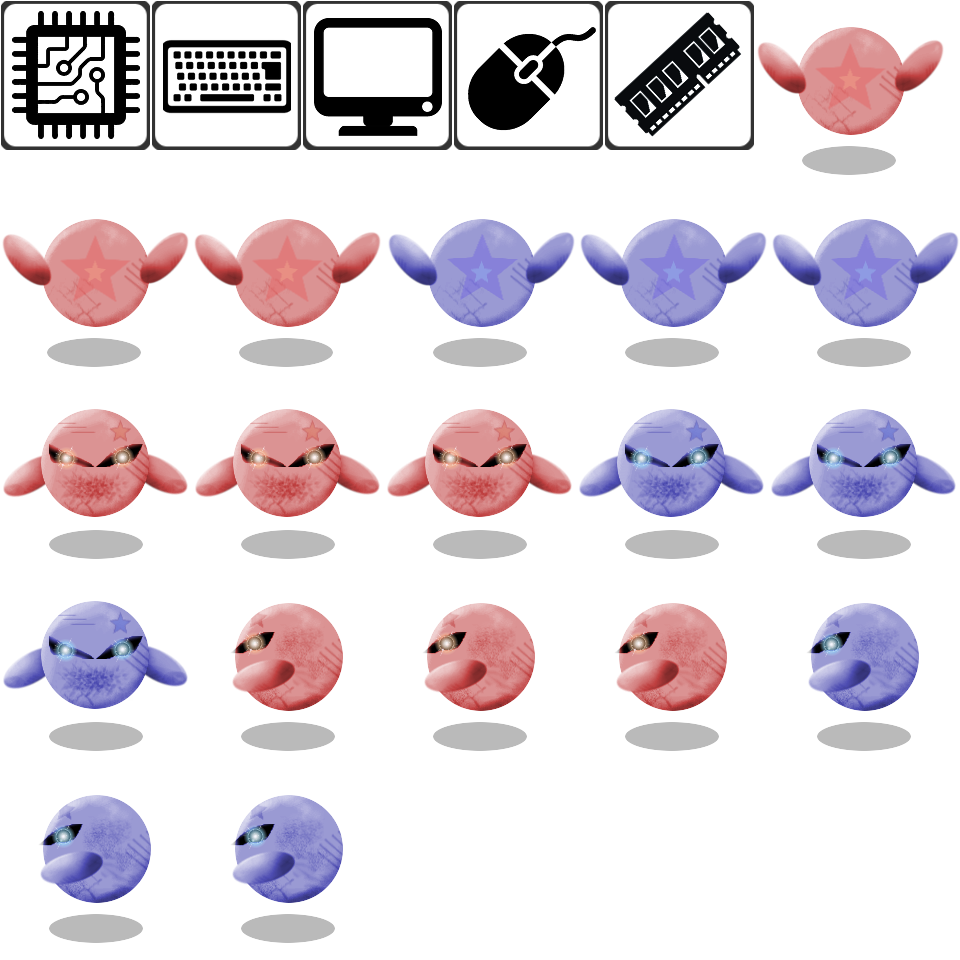
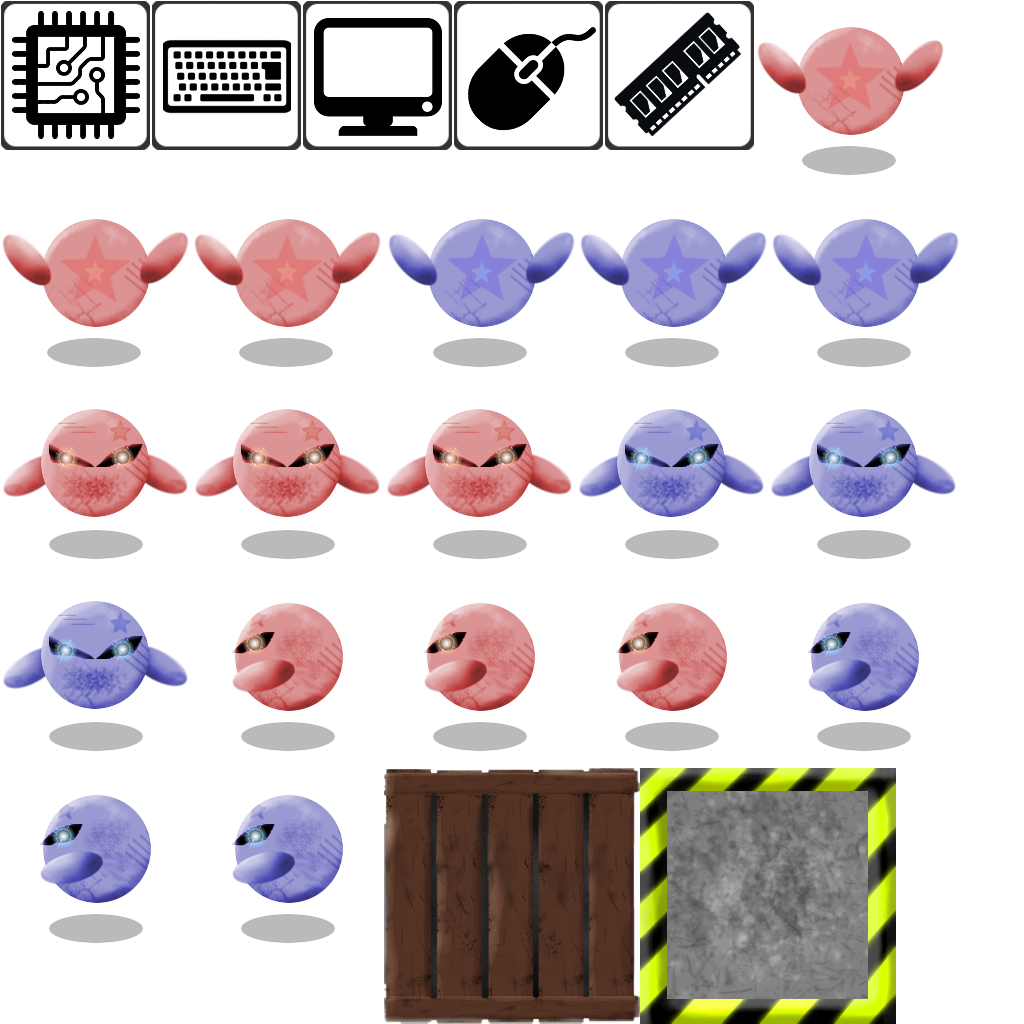
add obstacles

diff --git a/src/game/main/ggj2020/ObstacleFactory.ts b/src/game/main/ggj2020/ObstacleFactory.ts
@@ -11,29 +11,43 @@ import { ModuleInfo } from "./ModuleInfo";
 import { SetGridPosition } from "./SetGridPosition";
 
 
-export class ModuleFactory {
+export class ObstacleFactory {
 
     constructor(private world: ECSWorld, private scene: Scene) {
     }
 
-    public create(idmodule: number, initX: number, initY: number): Entity {
+    public create(): Entity {
         let entity = this.world.createEntity();
         //////
         //Sprite creation
         /////
+        let initX = Math.random()*GameConstants.MAP_W;
+        let initY = Math.random()*GameConstants.MAP_H;
         let atlasName = "atlas";
-        let module = this.scene.add.sprite(initX, initY, atlasName);
-        console.log(module.width+" / "+module.height);
-        module.setScale(GameConstants.moduleWidthWU / 151, GameConstants.moduleHeightWU / 151);
-        let gfxComp = new GfxGenericComponent<GameObjects.Image>(module, "gfx");
+        let obstacle = this.scene.add.sprite(initX, initY, atlasName);
+        obstacle.setScale(GameConstants.obstacleWidthWU / 256, GameConstants.obstacleHeightWU / 256);
+        let gfxComp = new GfxGenericComponent<GameObjects.Image>(obstacle, "gfx");
         entity.addComponent(gfxComp);
+
 
 
         // create animation object
         this.scene.anims.create({
-            key: 'MODULE_IDLE' + idmodule,
+            key: 'CRATE',
             frames: this.scene.anims.generateFrameNames(atlasName, {
-                prefix: "module_" + idmodule + "/module_" + idmodule + "_",
+                prefix: "crate_",
+                suffix: ".png",
+                start: 0,
+                end: 0,
+                zeroPad: 1
+            }),
+            frameRate: 1,
+            repeat: -1
+        });
+        this.scene.anims.create({
+            key: 'DANGER',
+            frames: this.scene.anims.generateFrameNames(atlasName, {
+                prefix: "danger_",
                 suffix: ".png",
                 start: 0,
                 end: 0,
@@ -43,38 +57,41 @@ export class ModuleFactory {
             repeat: -1
         });
 
-        // Play animation IDLE
-        module.anims.play('MODULE_IDLE' + idmodule, true);
+        let choose:number = Math.round(Math.random()*2 )+1;
+        if(choose==0){
+            obstacle.anims.play('CRATE',true);
+        }
+        else if (choose == 1) {
+            obstacle.anims.play('DANGER',true);
+        }
 
-        // Add module ID
-        let modInfo = entity.addComponent(new ModuleInfo(idmodule));
-        entity.addComponent(modInfo);
+        // Play animation IDLE
+//        obstacle.anims.play('MODULE_IDLE' + idmodule, true);
 
         ////
         //Body creation
         /////
-        let originX = module.x;
-        let originY = module.y;
+        let originX = obstacle.x;
+        let originY = obstacle.y;
         let rectangleCollisionBox = Matter.Bodies.rectangle(originX, originY,
-            GameConstants.moduleWidthWU, GameConstants.moduleHeightWU,
+            GameConstants.obstacleWidthWU, GameConstants.obstacleHeightWU,
             // player.height * player.scaleY,
             //{ mass: 8000 },
         );
-
         let moduleBody = Matter.Body.create({
             isStatic: true,
             mass: Infinity,
             parts: [rectangleCollisionBox,],
         });
 
+        // turn random
+        let ang = Math.random()*Math.PI;
+        Matter.Body.setAngle( moduleBody, ang );
+        obstacle.setRotation(ang);
+
         let physicBodyComponent = new PhysicGenericComponent(moduleBody);
         entity.addComponent(physicBodyComponent);
 
-        let gfxfollow = entity.addComponent(new GfxFollowPhysics(gfxComp, physicBodyComponent));
-        entity.addComponent(gfxfollow);
-
-        let setGrid = entity.addComponent(new SetGridPosition(physicBodyComponent, modInfo));
-        entity.addComponent(setGrid);
 
 
         return entity;

diff --git a/src/game/main/scenes/GameScene.ts b/src/game/main/scenes/GameScene.ts
@@ -19,6 +19,7 @@ import { physicWorld } from "../ecs/system/physics/PhysicWorld";
 import { MapFactory } from "../ggj2020/MapFactory";
 import { ModuleInfo } from "../ggj2020/ModuleInfo";
 import {CheckModulesAgainstRecipes} from "../ggj2020/CheckModulesAgainstRecipes";
+import {ObstacleFactory} from "../ggj2020/ObstacleFactory";
 export const GAME_SCENE_KEY: string = "GameScene";
 
 let Stats = require("stats.js");
@@ -207,8 +208,13 @@ export class GameScene extends Scene {
 
 
         //this.cameras.main.setBackgroundColor("#89fbf9")
-        this.cameras.main.setBackgroundColor("#000000")
+        this.cameras.main.setBackgroundColor("#000000");
 
+        // Create random obstacles
+        let of = new ObstacleFactory(this.ecsWorld, this);
+        for(let loop=0;loop<10;loop++){
+            of.create();
+        }
 
         console.log("GameScene Created");
         phaserReactService.notifySceneReadyEvent(this.scene.key);

diff --git a/src/game/main/ggj2020/GameConstants.ts b/src/game/main/ggj2020/GameConstants.ts
@@ -7,6 +7,10 @@ export const playerHeightOF7 = -16;//cm
 
 export const ZOOM_MARGIN = 64;
 
+export const obstacleWidthWU = 96;//cm
+export const obstacleHeightWU = 96;//cm
+
+
 export const moduleWidthWU = 64;//cm
 export const moduleHeightWU = 64;//cm
 
@@ -18,4 +22,4 @@ export const MAP_H: number = 2048;
 export const BORDER_THICKNESS: number = 50;
 
 export const EVT_MODULE_DROPPED = "module_dropped";
-export const EVT_MODULE_CARRIED = "module_carried"
+export const EVT_MODULE_CARRIED = "module_carried";

diff --git a/src/game/main/ggj2020/PlayerFactory.ts b/src/game/main/ggj2020/PlayerFactory.ts
@@ -29,7 +29,7 @@ export class PlayerFactory {
         let atlasName: string = "atlas";
 
         let player = this.scene.add.sprite(initX, initY, atlasName);
-        player.setScale(GameConstants.playerWidthWU / player.width, GameConstants.playerHeightWU / player.height);
+        player.setScale(GameConstants.playerWidthWU / 192, GameConstants.playerHeightWU / 192);
         let gfxComp = new GfxGenericComponent<GameObjects.Image>(player, "gfx");
         entity.addComponent(gfxComp);
 
